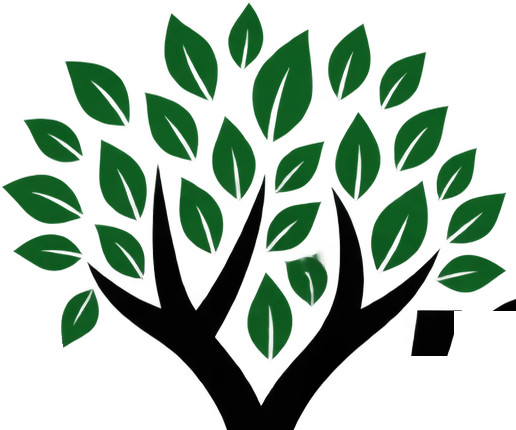
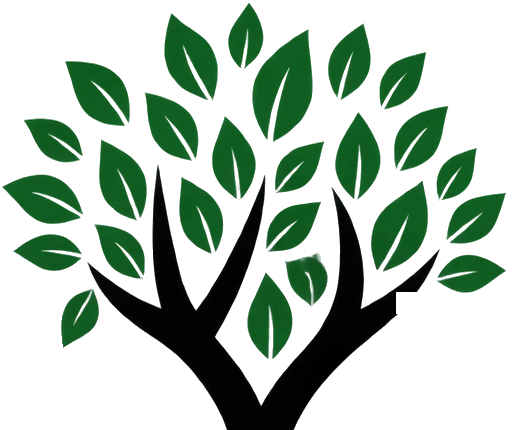
Willy's: replace Why section with filterable photo gallery + lightbox
Placeholder tiles in images/gallery/ until real project photos arrive;
nav/footer link to #gallery; cleaned tree mark and favicons.

Changed region(s): [[0.7442, 0.6651, 0.8992, 0.8465], [0.9612, 0.6953, 1.0, 0.7256]]

diff --git a/willys/index.html b/willys/index.html
@@ -39,6 +39,7 @@
     <a href="/landscaping/">Landscaping</a>
     <a href="/hardscaping/">Hardscaping</a>
     <a href="/garden-maintenance/">Maintenance</a>
+    <a href="/#gallery">Our Work</a>
     <a href="/#areas">Service Area</a>
     <a href="/#faq">FAQ</a>
     <a class="btn btn-primary" href="/#book">Book an Estimate</a>
@@ -84,16 +85,52 @@
   <a class="link-arrow" href="/garden-maintenance/">Explore garden maintenance</a></article></div>
 </div></section>
 
-<section class="bg-dark" id="why"><div class="wrap">
+<section class="bg-dark" id="gallery"><div class="wrap">
   <div class="section-head"><span class="eyebrow on-dark">Why Willy&rsquo;s</span>
-    <h2>A local crew that treats your yard like their own</h2></div>
-  <div class="why-grid">
-    <div class="why"><div class="n">01</div><h3>Truly local</h3><p>We live and work in Atlantic County, so we know the soil, the salt air, the town rules and the weather that shape your yard.</p></div>
-    <div class="why"><div class="n">02</div><h3>Design to done</h3><p>One team from first sketch to final cleanup. No hand-offs, no finger-pointing, just a finished yard.</p></div>
-    <div class="why"><div class="n">03</div><h3>Built to last</h3><p>Proper excavation, compacted bases and quality materials, so your patio, walls and plantings hold up season after season.</p></div>
-    <div class="why"><div class="n">04</div><h3>Clear communication</h3><p>Straightforward estimates, real timelines and a crew that shows up when we say we will.</p></div>
+    <h2>A local crew that treats your yard like their own</h2>
+    <p>Take a look at recent landscaping, hardscaping and garden maintenance work from around Atlantic County.</p></div>
+  <div class="g-filters" role="group" aria-label="Filter photos">
+    <button type="button" class="g-filter active" data-filter="all" aria-pressed="true">All</button>
+    <button type="button" class="g-filter" data-filter="landscaping" aria-pressed="false">Landscaping</button>
+    <button type="button" class="g-filter" data-filter="hardscaping" aria-pressed="false">Hardscaping</button>
+    <button type="button" class="g-filter" data-filter="garden-maintenance" aria-pressed="false">Maintenance</button>
   </div>
+  <div class="g-grid">
+    <button type="button" class="g-item" data-cat="landscaping" data-full="/images/gallery/project-01.jpg" aria-label="View photo: Landscape planting and mulch beds">
+      <img src="/images/gallery/project-01.jpg" width="1200" height="900" alt="Landscape planting and mulch beds in Atlantic County, NJ" loading="lazy" />
+    </button>
+    <button type="button" class="g-item" data-cat="hardscaping" data-full="/images/gallery/project-02.jpg" aria-label="View photo: Paver patio installation">
+      <img src="/images/gallery/project-02.jpg" width="1200" height="900" alt="Paver patio installation in Atlantic County, NJ" loading="lazy" />
+    </button>
+    <button type="button" class="g-item" data-cat="landscaping" data-full="/images/gallery/project-03.jpg" aria-label="View photo: Front yard landscape design">
+      <img src="/images/gallery/project-03.jpg" width="1200" height="900" alt="Front yard landscape design in Atlantic County, NJ" loading="lazy" />
+    </button>
+    <button type="button" class="g-item" data-cat="hardscaping" data-full="/images/gallery/project-04.jpg" aria-label="View photo: Retaining wall and walkway">
+      <img src="/images/gallery/project-04.jpg" width="1200" height="900" alt="Retaining wall and walkway in Atlantic County, NJ" loading="lazy" />
+    </button>
+    <button type="button" class="g-item" data-cat="garden-maintenance" data-full="/images/gallery/project-05.jpg" aria-label="View photo: Garden bed maintenance and clean-up">
+      <img src="/images/gallery/project-05.jpg" width="1200" height="900" alt="Garden bed maintenance and clean-up in Atlantic County, NJ" loading="lazy" />
+    </button>
+    <button type="button" class="g-item" data-cat="landscaping" data-full="/images/gallery/project-06.jpg" aria-label="View photo: New lawn and planting install">
+      <img src="/images/gallery/project-06.jpg" width="1200" height="900" alt="New lawn and planting install in Atlantic County, NJ" loading="lazy" />
+    </button>
+    <button type="button" class="g-item" data-cat="hardscaping" data-full="/images/gallery/project-07.jpg" aria-label="View photo: Fire pit and seating area">
+      <img src="/images/gallery/project-07.jpg" width="1200" height="900" alt="Fire pit and seating area in Atlantic County, NJ" loading="lazy" />
+    </button>
+    <button type="button" class="g-item" data-cat="garden-maintenance" data-full="/images/gallery/project-08.jpg" aria-label="View photo: Seasonal garden clean-up">
+      <img src="/images/gallery/project-08.jpg" width="1200" height="900" alt="Seasonal garden clean-up in Atlantic County, NJ" loading="lazy" />
+    </button>
+  </div>
+  <p class="g-cta">Like what you see? <a href="#book">Book a free estimate</a> and let&rsquo;s plan yours.</p>
 </div></section>
+
+<dialog class="lightbox" id="lightbox" aria-label="Photo viewer">
+  <button type="button" class="lb-close" aria-label="Close">&times;</button>
+  <button type="button" class="lb-nav lb-prev" aria-label="Previous photo">&#8249;</button>
+  <img id="lbImg" src="" alt="" />
+  <button type="button" class="lb-nav lb-next" aria-label="Next photo">&#8250;</button>
+  <p class="lb-cap" id="lbCap"></p>
+</dialog>
 
 <section id="process"><div class="wrap">
   <div class="section-head"><span class="eyebrow">How It Works</span><h2>From first call to finished yard</h2></div>
@@ -191,7 +228,7 @@
     <div>
       <h4>Company</h4>
       <ul>
-        <li><a href="/#why">Why Willy&rsquo;s</a></li>
+        <li><a href="/#gallery">Our Work</a></li>
         <li><a href="/#process">How It Works</a></li>
         <li><a href="/#areas">Service Area</a></li>
         <li><a href="/#faq">FAQ</a></li>

diff --git a/willys/styles.css b/willys/styles.css
@@ -281,3 +281,30 @@ details p{color:var(--muted);padding-bottom:6px}
 .foot-credit a{display:inline-flex;align-items:center;gap:8px;font-size:.85rem;color:#8f9c8c}
 .foot-credit a:hover{color:#fff}
 .foot-credit img{height:16px;width:auto;opacity:.9}
+
+/* Gallery */
+.g-filters{display:flex;flex-wrap:wrap;gap:10px;margin-bottom:26px}
+.g-filter{font-family:var(--head);font-weight:700;font-size:1.1rem;letter-spacing:.08em;text-transform:uppercase;padding:.5em 1.2em;border-radius:999px;border:1.5px solid rgba(255,255,255,.35);background:transparent;color:#fff;cursor:pointer;transition:.15s}
+.g-filter:hover{border-color:#fff}
+.g-filter.active{background:#fff;color:var(--green-dark);border-color:#fff}
+.g-grid{display:grid;grid-template-columns:repeat(4,1fr);gap:14px}
+.g-item{position:relative;padding:0;border:0;border-radius:12px;overflow:hidden;cursor:zoom-in;background:#111;aspect-ratio:4/3;display:block}
+.g-item[hidden]{display:none}
+.g-item img{width:100%;height:100%;object-fit:cover;transition:transform .35s}
+.g-item::after{content:"+";position:absolute;right:10px;bottom:10px;width:34px;height:34px;border-radius:50%;background:rgba(255,255,255,.92);color:var(--green-dark);font:700 1.5rem/34px var(--head);text-align:center;opacity:0;transform:scale(.8);transition:.2s}
+.g-item:hover img{transform:scale(1.06)}
+.g-item:hover::after,.g-item:focus-visible::after{opacity:1;transform:none}
+.g-cta{margin:28px 0 0;color:#c3cfc0}
+.g-cta a{color:#8fd19e;font-weight:700}
+.lightbox{border:0;padding:0;background:transparent;max-width:none;max-height:none;width:100%;height:100%;color:#fff}
+.lightbox::backdrop{background:rgba(5,8,5,.92)}
+.lightbox[open]{display:flex;align-items:center;justify-content:center;flex-direction:column}
+.lightbox img{max-width:min(92vw,1100px);max-height:78vh;width:auto;height:auto;border-radius:10px;box-shadow:0 20px 60px rgba(0,0,0,.5)}
+.lb-cap{margin:14px 20px 0;text-align:center;font-weight:600}
+.lb-close,.lb-nav{position:absolute;background:rgba(255,255,255,.12);border:0;color:#fff;cursor:pointer;border-radius:50%;width:48px;height:48px;font-size:2rem;line-height:1;display:grid;place-items:center}
+.lb-close:hover,.lb-nav:hover{background:rgba(255,255,255,.28)}
+.lb-close{top:18px;right:18px}
+.lb-nav{top:50%;transform:translateY(-50%)}
+.lb-prev{left:18px}.lb-next{right:18px}
+@media (max-width:980px){.g-grid{grid-template-columns:repeat(3,1fr)}}
+@media (max-width:640px){.g-grid{grid-template-columns:repeat(2,1fr);gap:10px}.g-filter{font-size:1rem}.g-filters{gap:8px}.lb-nav{width:40px;height:40px;top:auto;bottom:22px;transform:none}.lb-prev{left:22px}.lb-next{right:22px}}

diff --git a/willys/script.js b/willys/script.js
@@ -61,3 +61,43 @@
     });
   });
 })();
+
+// gallery: filters + lightbox
+(function () {
+  var grid = document.querySelector('.g-grid'); if (!grid) return;
+  var items = [].slice.call(grid.querySelectorAll('.g-item'));
+  var filters = [].slice.call(document.querySelectorAll('.g-filter'));
+  var lb = document.getElementById('lightbox'), img = document.getElementById('lbImg'), cap = document.getElementById('lbCap');
+  var current = 0;
+
+  function visible() { return items.filter(function (i) { return !i.hidden; }); }
+
+  filters.forEach(function (btn) {
+    btn.addEventListener('click', function () {
+      var f = btn.getAttribute('data-filter');
+      filters.forEach(function (b) { var on = b === btn; b.classList.toggle('active', on); b.setAttribute('aria-pressed', on); });
+      items.forEach(function (i) { i.hidden = !(f === 'all' || i.getAttribute('data-cat') === f); });
+    });
+  });
+
+  function show(list, idx) {
+    current = (idx + list.length) % list.length;
+    var it = list[current], thumb = it.querySelector('img');
+    img.src = it.getAttribute('data-full'); img.alt = thumb.alt; cap.textContent = thumb.alt;
+  }
+  items.forEach(function (it) {
+    it.addEventListener('click', function () {
+      var list = visible(); show(list, list.indexOf(it));
+      if (lb.showModal) lb.showModal(); else lb.setAttribute('open', '');
+    });
+  });
+  lb.querySelector('.lb-close').addEventListener('click', function () { lb.close(); });
+  lb.querySelector('.lb-prev').addEventListener('click', function () { var l = visible(); show(l, current - 1); });
+  lb.querySelector('.lb-next').addEventListener('click', function () { var l = visible(); show(l, current + 1); });
+  lb.addEventListener('click', function (e) { if (e.target === lb) lb.close(); });
+  lb.addEventListener('keydown', function (e) {
+    var l = visible();
+    if (e.key === 'ArrowLeft') show(l, current - 1);
+    if (e.key === 'ArrowRight') show(l, current + 1);
+  });
+})();

diff --git a/willys/garden-maintenance/index.html b/willys/garden-maintenance/index.html
@@ -39,6 +39,7 @@
     <a href="/landscaping/">Landscaping</a>
     <a href="/hardscaping/">Hardscaping</a>
     <a href="/garden-maintenance/">Maintenance</a>
+    <a href="/#gallery">Our Work</a>
     <a href="/#areas">Service Area</a>
     <a href="/#faq">FAQ</a>
     <a class="btn btn-primary" href="/#book">Book an Estimate</a>
@@ -100,7 +101,7 @@
     <div>
       <h4>Company</h4>
       <ul>
-        <li><a href="/#why">Why Willy&rsquo;s</a></li>
+        <li><a href="/#gallery">Our Work</a></li>
         <li><a href="/#process">How It Works</a></li>
         <li><a href="/#areas">Service Area</a></li>
         <li><a href="/#faq">FAQ</a></li>

diff --git a/willys/hardscaping/index.html b/willys/hardscaping/index.html
@@ -39,6 +39,7 @@
     <a href="/landscaping/">Landscaping</a>
     <a href="/hardscaping/">Hardscaping</a>
     <a href="/garden-maintenance/">Maintenance</a>
+    <a href="/#gallery">Our Work</a>
     <a href="/#areas">Service Area</a>
     <a href="/#faq">FAQ</a>
     <a class="btn btn-primary" href="/#book">Book an Estimate</a>
@@ -100,7 +101,7 @@
     <div>
       <h4>Company</h4>
       <ul>
-        <li><a href="/#why">Why Willy&rsquo;s</a></li>
+        <li><a href="/#gallery">Our Work</a></li>
         <li><a href="/#process">How It Works</a></li>
         <li><a href="/#areas">Service Area</a></li>
         <li><a href="/#faq">FAQ</a></li>

diff --git a/willys/landscaping/index.html b/willys/landscaping/index.html
@@ -39,6 +39,7 @@
     <a href="/landscaping/">Landscaping</a>
     <a href="/hardscaping/">Hardscaping</a>
     <a href="/garden-maintenance/">Maintenance</a>
+    <a href="/#gallery">Our Work</a>
     <a href="/#areas">Service Area</a>
     <a href="/#faq">FAQ</a>
     <a class="btn btn-primary" href="/#book">Book an Estimate</a>
@@ -100,7 +101,7 @@
     <div>
       <h4>Company</h4>
       <ul>
-        <li><a href="/#why">Why Willy&rsquo;s</a></li>
+        <li><a href="/#gallery">Our Work</a></li>
         <li><a href="/#process">How It Works</a></li>
         <li><a href="/#areas">Service Area</a></li>
         <li><a href="/#faq">FAQ</a></li>

diff --git a/willys/404.html b/willys/404.html
@@ -39,6 +39,7 @@
     <a href="/landscaping/">Landscaping</a>
     <a href="/hardscaping/">Hardscaping</a>
     <a href="/garden-maintenance/">Maintenance</a>
+    <a href="/#gallery">Our Work</a>
     <a href="/#areas">Service Area</a>
     <a href="/#faq">FAQ</a>
     <a class="btn btn-primary" href="/#book">Book an Estimate</a>
@@ -68,7 +69,7 @@
     <div>
       <h4>Company</h4>
       <ul>
-        <li><a href="/#why">Why Willy&rsquo;s</a></li>
+        <li><a href="/#gallery">Our Work</a></li>
         <li><a href="/#process">How It Works</a></li>
         <li><a href="/#areas">Service Area</a></li>
         <li><a href="/#faq">FAQ</a></li>

diff --git a/willys/thank-you/index.html b/willys/thank-you/index.html
@@ -39,6 +39,7 @@
     <a href="/landscaping/">Landscaping</a>
     <a href="/hardscaping/">Hardscaping</a>
     <a href="/garden-maintenance/">Maintenance</a>
+    <a href="/#gallery">Our Work</a>
     <a href="/#areas">Service Area</a>
     <a href="/#faq">FAQ</a>
     <a class="btn btn-primary" href="/#book">Book an Estimate</a>
@@ -70,7 +71,7 @@
     <div>
       <h4>Company</h4>
       <ul>
-        <li><a href="/#why">Why Willy&rsquo;s</a></li>
+        <li><a href="/#gallery">Our Work</a></li>
         <li><a href="/#process">How It Works</a></li>
         <li><a href="/#areas">Service Area</a></li>
         <li><a href="/#faq">FAQ</a></li>
